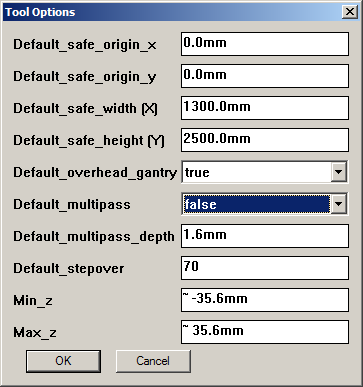
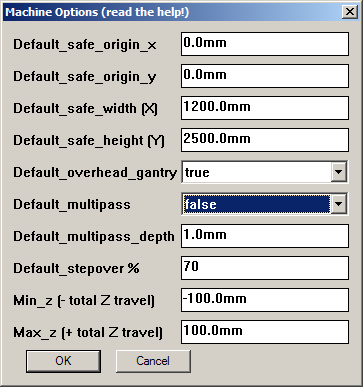
fuzzy hole boring stepover use stepover% instead of fixed 50% use_fuzzy_holes in phoptions help updated

diff --git a/Plugins/Phlatboyz/html/howto_options.html b/Plugins/Phlatboyz/html/howto_options.html
@@ -106,7 +106,7 @@
 
 <br>
 <div class="intro-name">Phlatboyz PhlatScripT
-	<div><b>SketchUcam Version 1.2</b><br>July 2014</div>
+	<div><b>SketchUcam Version 1.2a</b><br>Oct 2014</div>
 </div>
 <hr width="100%">
 <div class="intro">
@@ -319,6 +319,13 @@ cuts = 3.3</pre>
       <dd>If Use_Home_Height is true, then a G00 Z movement will be issued at the end of the job, using this height for Z.<br>
       If you have material top as Z-zero, it will retract this high above the material.<br>
       If you have table top as Z-Zero, it will retract this high above the table.
+   <dt>Use fuzzy hole stepover 
+      <dd>false = spiral hole boring will use the exact stepover percentage given in the parameters dialog.
+         This may create a very small depth of cut for the last cut.
+      <dd>true = the stepover will be adjusted to give a whole number of steps of equal size.<br>
+         If stepover% is less than 50% then the number of steps will be rounded UP to give a smaller stepover, for hard materials.<br>
+         If stepover% is greater than 50% then the nubmer of steps will be rounded DOWN, for soft materials.<br>
+         If stepover% is 50%, then no stepover rounding will be performed.
    </dl>
 </p>
    

diff --git a/Plugins/Phlatboyz/tools/PhOptions.rb b/Plugins/Phlatboyz/tools/PhOptions.rb
@@ -64,6 +64,7 @@ module PhlatScript
          @profile_save_material_thickness =   (phoptions.profile_save_material_thickness? ? '1' : '0')
          @use_home_height        =   (phoptions.use_home_height? ? '1' : '0')
          @default_home_height    =   PhlatScript.conformat(phoptions.default_home_height)
+         @use_fuzzy_holes        =   (phoptions.use_fuzzy_holes? ? '1' : '0')
       end
    end
 
@@ -115,8 +116,9 @@ module PhlatScript
          @profile_save_material_thickness = Profile_save_material_thickness
          @use_home_height = Use_Home_Height
          @default_home_height = Default_Home_Height
+         @use_fuzzy_holes = true
 
-         # if MyConstats.ini exists then read it
+         # if MyOptions.ini exists then read it
          path = PhlatScript.toolsProfilesPath()
 
          filePath = File.join(path , 'MyOptions.ini')
@@ -231,6 +233,11 @@ module PhlatScript
             @use_home_height = value > 0 ? true :  false              if (value != -1)
 
             @default_home_height = getvalue(optin['default_home_height'])    if (optin.has_key?('default_home_height'))
+            
+         #use_fuzzy_holes
+            value = -1
+            value = getvalue(optin['use_fuzzy_holes'])                if (optin.has_key?('use_fuzzy_holes'))
+            @use_fuzzy_holes = value > 0 ? true :  false              if (value != -1)
 
          end
 
@@ -570,6 +577,14 @@ module PhlatScript
       def default_home_height=(newval)
          @default_home_height = newval
       end
+      
+      def use_fuzzy_holes?
+         @use_fuzzy_holes
+      end
+      def use_fuzzy_holes=(newval)
+         @use_fuzzy_holes = newval
+      end
+      
    end # class Options
 #~~~~~~~~~~~~~~~~~~~~~~~~~~~~~~~~~~~~~~~~~~~~~~~~~~~~~~~~~~~~~~
    class OptionsFilesTool < PhlatTool
@@ -596,7 +611,7 @@ module PhlatScript
       # dropdown options can be added here
       #         list=["henry|bob|susan"] #should give list of existing?
 
-      input=UI.inputbox(prompts, defaults, 'Default File Options')
+      input=UI.inputbox(prompts, defaults, 'Default File Options (read the help!)')
       # input is nil if user cancelled
       if (input)
          @options.default_file_name = input[0].to_s
@@ -645,7 +660,7 @@ end # class
             ]
 
 
-         input=UI.inputbox(prompts, defaults, list, 'Miscallaneous Options')
+         input=UI.inputbox(prompts, defaults, list, 'Miscallaneous Options (read the help!)')
          # input is nil if user cancelled
          if (input)
             @options.default_comment_remark  = input[0].to_s
@@ -722,7 +737,7 @@ end # class
             ]
 
 
-         input=UI.inputbox(prompts, defaults, list, 'Tool Options')
+         input=UI.inputbox(prompts, defaults, list, 'Tool Options (read the help!)')
          # input is nil if user cancelled
          if (input)
             @options.default_spindle_speed      = input[0].to_i
@@ -767,9 +782,9 @@ end # class
             'Default_overhead_gantry ',
             'Default_multipass ',
             'Default_multipass_depth ',
-            'Default_stepover ',
-            'Min_z ',
-            'Max_z '
+            'Default_stepover % ',
+            'Min_z (- total Z travel) ',
+            'Max_z (+ total Z travel) '
             ];
          defaults=[
             Sketchup.format_length(@options.default_safe_origin_x),
@@ -797,7 +812,7 @@ end # class
             ];
 
 
-         input=UI.inputbox(prompts, defaults, list, 'Tool Options')
+         input=UI.inputbox(prompts, defaults, list, 'Machine Options (read the help!)')
          # input is nil if user cancelled
          if (input)
             @options.default_safe_origin_x   = Sketchup.parse_length(input[0]);
@@ -840,7 +855,8 @@ end # class
             'Use_vtab_speed_limit ',
             'Profile_save_material_thickness ',
             'Use_Home_Height ',
-            'Default_Home_Height '
+            'Default_Home_Height ',
+            'Use fuzzy hole stepover '
             ];
          defaults=[
             @options.use_exact_path?.inspect(),
@@ -852,7 +868,8 @@ end # class
             @options.use_vtab_speed_limit?.inspect(),
             @options.profile_save_material_thickness?.inspect(),
             @options.use_home_height?.inspect(),
-            Sketchup.format_length(@options.default_home_height)
+            Sketchup.format_length(@options.default_home_height),
+            @options.use_fuzzy_holes?.inspect()
             ];
          list=[
             'true|false',
@@ -864,10 +881,11 @@ end # class
             'true|false',
             'true|false',
             'true|false',
-            ''
+            '',
+            'true|false'
             ];
 
-         input=UI.inputbox(prompts, defaults, list, 'Feature Options')
+         input=UI.inputbox(prompts, defaults, list, 'Feature Options (read the help!)')
          # input is nil if user cancelled
          if (input)
             @options.use_exact_path          = (input[0] == 'true')
@@ -880,7 +898,7 @@ end # class
             @options.profile_save_material_thickness         = (input[7] == 'true')
             @options.use_home_height         = (input[8] == 'true')
             @options.default_home_height     = Sketchup.parse_length(input[9])
-
+            @options.use_fuzzy_holes         = (input[10] == 'true')
             @options.save
          end # if input
       end # def select

diff --git a/Plugins/Phlatboyz/PhlatMill.rb b/Plugins/Phlatboyz/PhlatMill.rb
@@ -13,7 +13,8 @@ module PhlatScript
       @cy = 0.0
       @cs = 0.0
       @cc = ""
-      @debug = false    # if true then a LOT of stuff will appear in the ruby console
+      @debug = false   # if true then a LOT of stuff will appear in the ruby console
+      puts "debug true in PhlatMill.rb\n" if @debug
       @max_x = 48.0
       @min_x = -48.0
       @max_y = 22.0
@@ -203,8 +204,8 @@ module PhlatScript
             cncPrint("(move z=", sprintf("%10.6f",zo), " GT max of ", @max_z, ")\n")
             zo = @max_z
          elsif (zo < @min_z)
-            #cncPrint "(move x=", sprintf("%8.3f",zo), " LT min of ", @min_z, ")\n"
-            #zo = @min_z
+            cncPrint "(move x=", sprintf("%8.3f",zo), " LT min of ", @min_z, ")\n"
+            zo = @min_z
          end
          command_out = ""
          command_out += cmd if (cmd != @cc)
@@ -252,6 +253,7 @@ module PhlatScript
             cncPrint("(RETRACT limiting Z to @max_z)\n")
             zo = @max_z
          elsif (zo < @min_z)
+            cncPrint("(RETRACT limiting Z to @min_z)\n")
             zo = @min_z
          end
          command_out = ""
@@ -281,8 +283,10 @@ module PhlatScript
          @no_move_count += 1
       else
          if (zo > @max_z)
+            cncPrint("(PLUNGE limiting Z to max_z @max_z)\n")
             zo = @max_z
          elsif (zo < @min_z)
+            cncPrint("(PLUNGE limiting Z to min_z @min_z)\n")
             zo = @min_z
          end
          command_out = ""
@@ -378,6 +382,7 @@ module PhlatScript
       command_out = ""
 
       cncPrint " (HOLE #{diam.to_mm} dia at #{xo.to_mm},#{yo.to_mm} DEPTH #{(zStart-zo).to_mm})\n"       if @debug
+      puts     " (HOLE #{diam.to_mm} dia at #{xo.to_mm},#{yo.to_mm} DEPTH #{(zStart-zo).to_mm})\n"       if @debug
 
 #      xs = format_measure('X', xo)
 #      ys = format_measure('Y', yo)
@@ -425,16 +430,62 @@ module PhlatScript
       yoff = (diam/2 - @bit_diameter/2)      # offset to start point for final cut
       if (diam > (@bit_diameter*2) )
          command_out += "  (MULTI spirals)\n"            if @debug
-         ystep = @bit_diameter / 2
+# if regular step         
+#         ystep = @bit_diameter / 2
+# else use stepover
+         ystep = PhlatScript.stepover * @bit_diameter / 100
+
+#########################
+# if fuzzy stepping, calc new ystep from optimized step count
+# find number of steps to complete hole
+         if ($phoptions.use_fuzzy_holes?)
+            rem = (diam / 2) - (@bit_diameter/2)  # still to be cut
+            temp = ((diam / 2) - (@bit_diameter/2)) / ystep   # number of steps to do it
+            puts " temp steps = #{temp}\n" if @debug
+            puts " ystep old #{ystep.to_mm}\n" if @debug
+
+            flag = false
+            if (PhlatScript.stepover < 50)               #round temp up to create more steps
+               temp = (temp + 0.5).round
+               flag = true
+            else
+               if (PhlatScript.stepover > 50)            #round temp down to create fewer steps
+                  temp = (temp - 0.5).round
+                  flag = true
+               end
+            end
+            if (flag)                                    # only adjust if we need to
+               temp = (temp < 1) ? 1 : temp
+               puts "   temp steps = #{temp}\n" if @debug
+            #   calc new ystep
+               ystep = rem / temp
+               if (ystep > @bit_diameter ) # limit to stepover
+                  ystep = PhlatScript.stepover * @bit_diameter / 100
+                  puts " ystep was > bit, limited to stepover\n"         if @debug
+               end
+               puts " ystep new #{ystep.to_mm}\n" if @debug
+            end
+         end
+#######################
+
+         puts "Ystep #{ystep.to_mm}\n" if @debug
+         
+         
+         
          nowyoffset = 0
-         while (nowyoffset < yoff)
+#         while (nowyoffset < yoff)
+         while ( (nowyoffset - yoff).abs > 0.001)         
             nowyoffset += ystep
             if (nowyoffset > yoff)
                nowyoffset = yoff;
-               command_out += "  (offset clamped)\n"       if @debug
+               command_out += "  (offset clamped)\n"                 if @debug
+               puts "   nowyoffset #{nowyoffset.to_mm} clamped\n"    if @debug
+            else
+               puts "   nowyoffset #{nowyoffset.to_mm}\n"            if @debug
             end
             command_out += SpiralAt(xo,yo,zStart,zo,nowyoffset)
-            if (nowyoffset != yoff) # then retract to reduced safe
+#            if (nowyoffset != yoff) # then retract to reduced safe
+            if ( (nowyoffset - yoff).abs > 0.0001) # then retract to reduced safe            
                command_out += "G0 " + format_measure("Z" , sh)
                command_out += "\n"
             end
